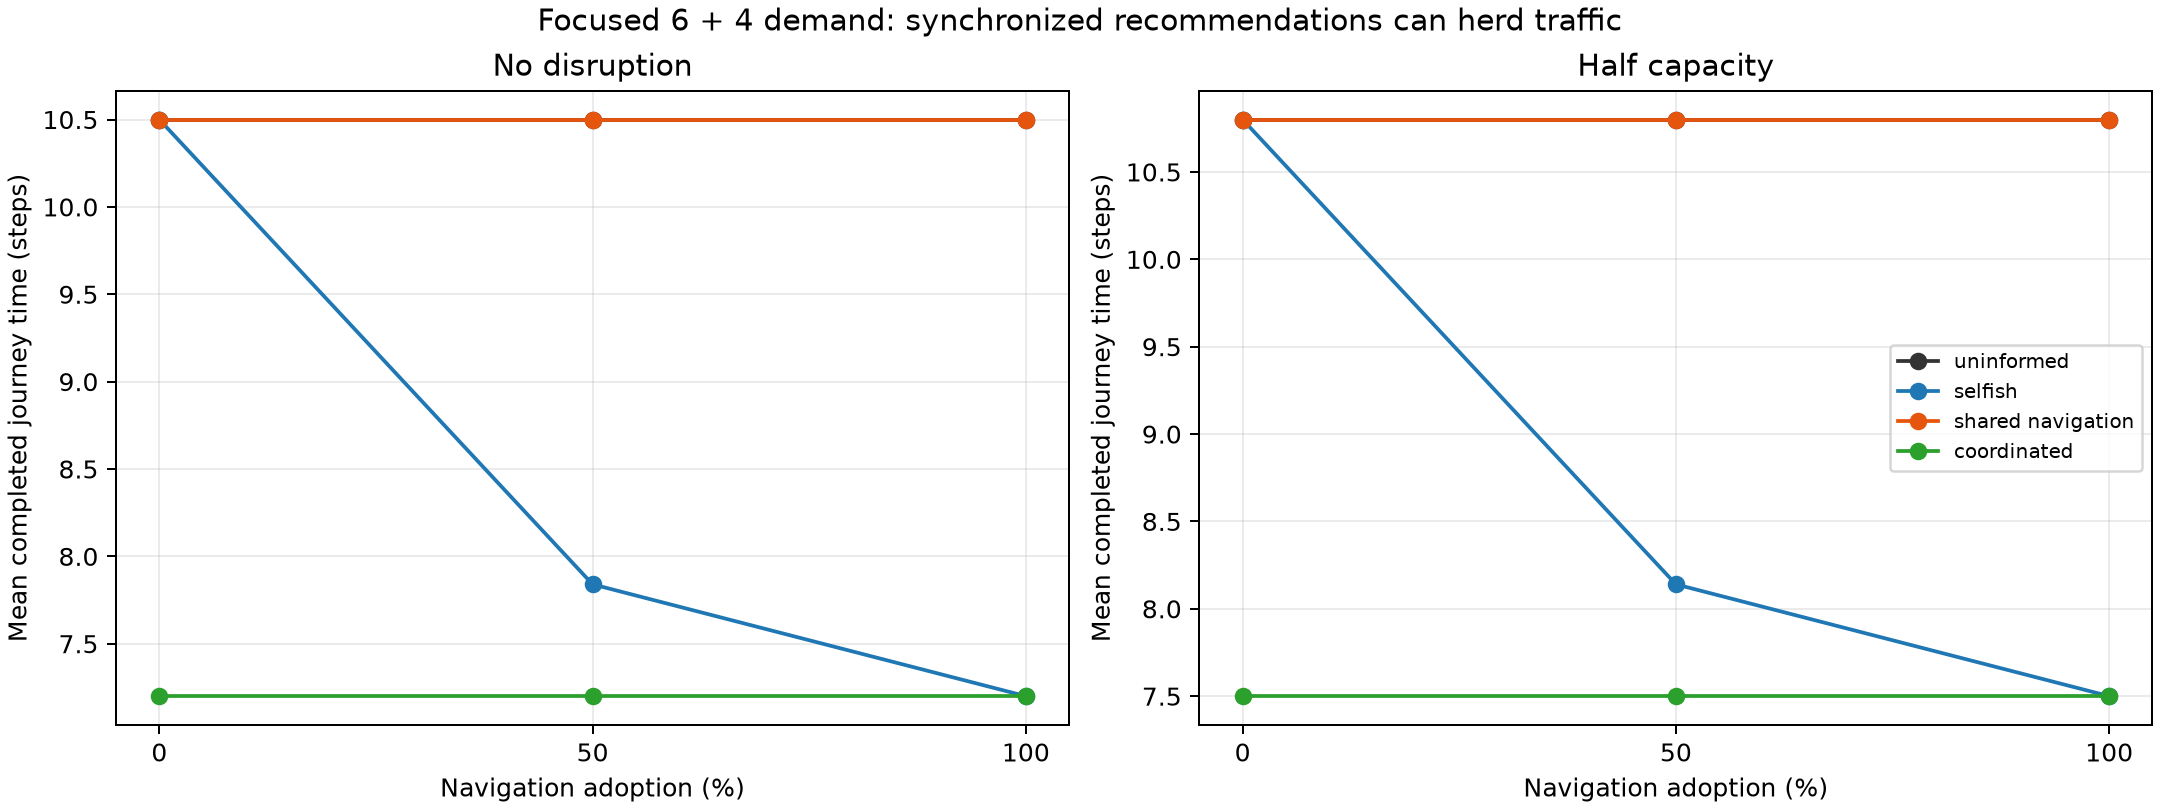
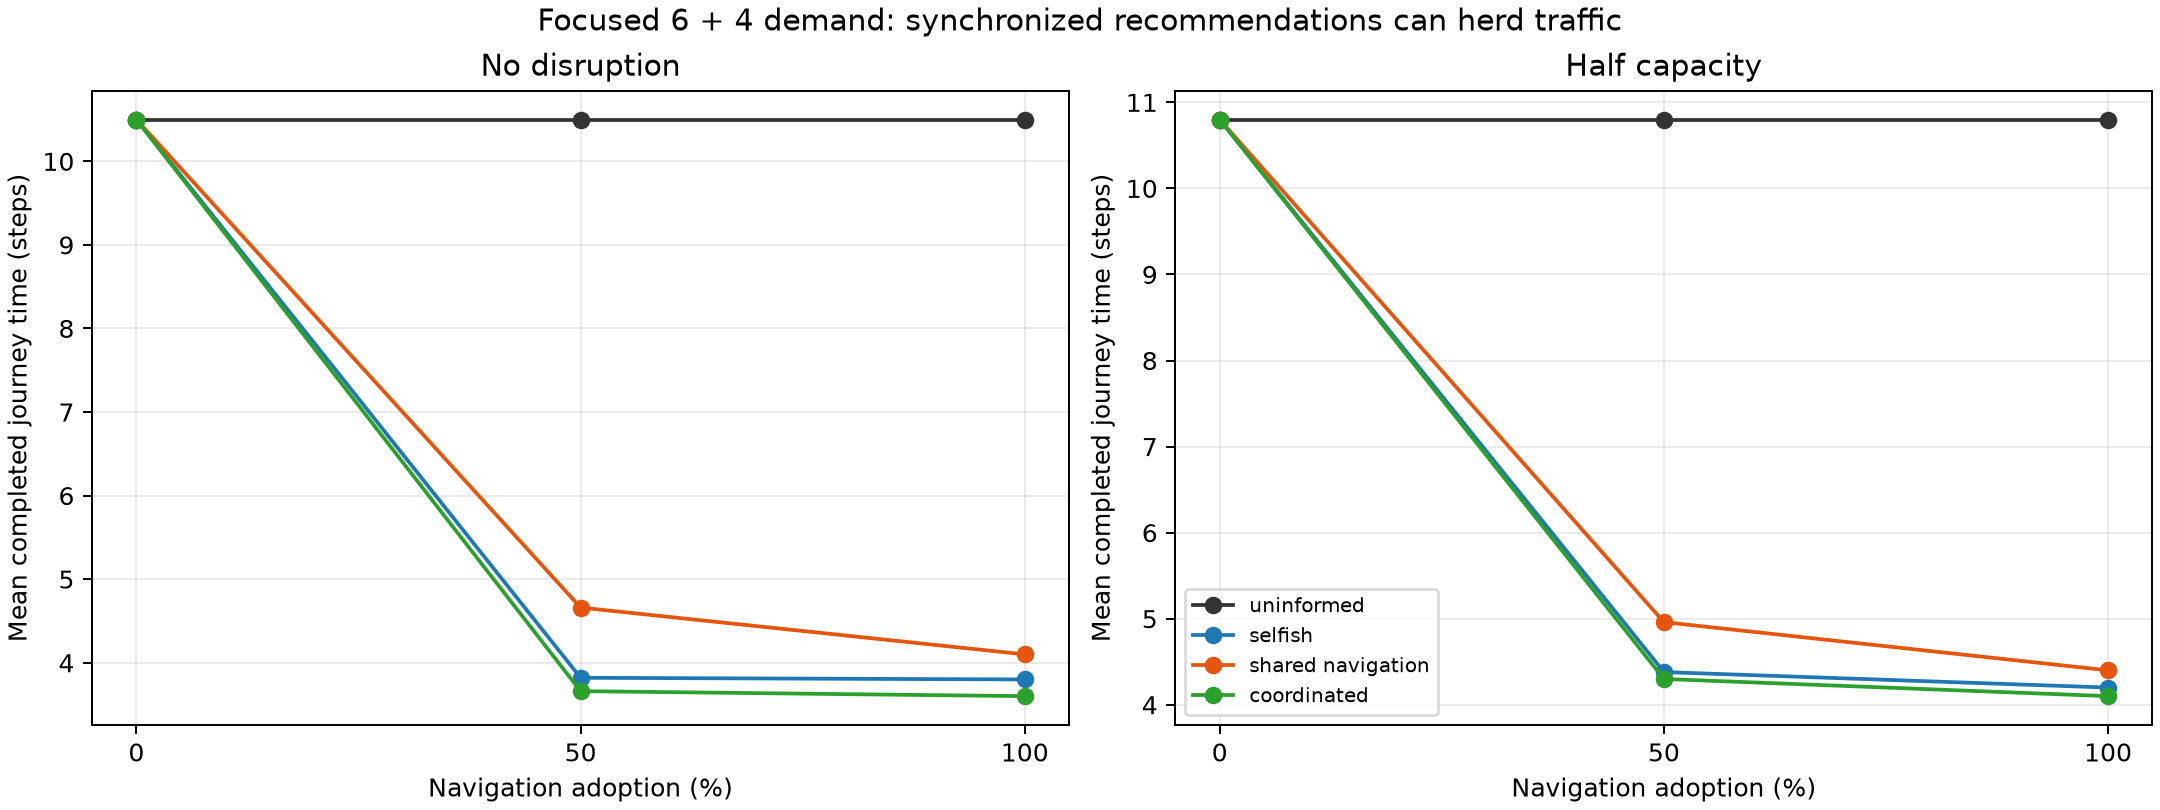
test(focused): extend focused-presentation and simulation tests; regenerate figure
test_focused_presentation.py (3 → 12 tests):
- test_coordinated_zero_adoption_matches_uninformed_baseline: verifies
  coordinated at 0% adoption follows the uninformed baseline and does
  not report the previously erroneous 7.2-step result.
- test_coordinated_full_adoption_produces_system_level_assignments:
  coordinated at 100% adoption diverts at least one vehicle.
- test_mixed_coordinated_wave_non_nav_vehicles_get_free_flow_routes:
  non-nav vehicles in a mixed wave stay on the primary free-flow route.
- test_shared_navigation_assigns_same_route_within_each_release_cohort:
  all vehicles in a release wave get one synchronized recommendation.
- test_shared_navigation_has_at_least_one_diverted_vehicle: at 100%
  adoption shared navigation must divert at least one vehicle.
- test_shared_navigation_differs_from_uninformed_routing: shared nav
  produces lower primary-route share than uninformed.
- test_shared_navigation_has_higher_mean_journey_time_than_selfish and
  test_selfish_has_lower_mean_journey_time_than_shared_navigation: herding
  cost is captured in journey-time ordering.
- test_shared_navigation_lower_within_cohort_diversity_than_selfish:
  per-wave diversity is 1 for shared vs 2 for selfish.
- test_focused_route_metrics_are_seed_reproducible and
  test_repeated_coordinated_runs_with_same_seed_are_deterministic:
  determinism across repeated runs with the same seed.

test_simulation.py / test_routing.py:
[…]

diff --git a/tests/test_focused_presentation.py b/tests/test_focused_presentation.py
@@ -1,8 +1,15 @@
-"""Focused 6+4 presentation scenario regression tests."""
+"""Focused 6+4 presentation scenario regression tests.
 
+These tests verify both the mechanism (adoption controls nav-user eligibility,
+each release cohort's route behaviour) and the outcomes (journey-time ordering,
+route diversity, herding contrast) for the focused presentation network.
+"""
+
+from src.adoption import assign_navigation_adoption
 from src.demand import build_staggered_corridor_demand
-from src.experiments import _run_focused_scenario
+from src.experiments import _run_focused_scenario, configure_focused_network
 from src.network import create_default_network
+from src.simulation import Simulation
 
 
 def test_staggered_demand_has_six_releases_at_zero_and_four_at_one():
@@ -12,23 +19,198 @@ def test_staggered_demand_has_six_releases_at_zero_and_four_at_one():
     assert [vehicle.start_time for vehicle in vehicles] == [0] * 6 + [1] * 4
 
 
-def test_focused_shared_navigation_herds_more_than_selfish_entry():
+# ---------------------------------------------------------------------------
+# Acceptance criteria: adoption controls eligibility
+# ---------------------------------------------------------------------------
+
+def test_coordinated_zero_adoption_matches_uninformed_baseline():
+    """Coordinated at 0% adoption must follow the uninformed baseline (not 7.2).
+
+    When no vehicle uses the navigation app, the coordinated controller is
+    bypassed entirely and all vehicles receive uninformed free-flow routes.
+    """
+    coord = _run_focused_scenario(
+        policy="coordinated", adoption_rate=0.0, disruption="none", seed=0, horizon=100
+    )
+    uninformed = _run_focused_scenario(
+        policy="uninformed", adoption_rate=0.0, disruption="none", seed=0, horizon=100
+    )
+
+    assert coord["mean_journey_time"] == uninformed["mean_journey_time"]
+    assert coord["route_diversity"] == uninformed["route_diversity"]
+    assert coord["primary_route_share"] == uninformed["primary_route_share"] == 1.0
+    # Must NOT report the (previously erroneous) 7.2-step optimal result.
+    assert coord["mean_journey_time"] != 7.2
+
+
+def test_coordinated_full_adoption_produces_system_level_assignments():
+    """Coordinated routing at 100% adoption can divert vehicles to the alternative."""
+    coord = _run_focused_scenario(
+        policy="coordinated", adoption_rate=1.0, disruption="none", seed=0, horizon=100
+    )
+
+    assert coord["completed_count"] == 10
+    # Controller must produce at least one diverted vehicle.
+    assert coord["primary_route_share"] < 1.0
+    assert coord["route_diversity"] >= 2
+
+
+# ---------------------------------------------------------------------------
+# Acceptance criteria: mixed waves leave non-nav on free-flow routes
+# ---------------------------------------------------------------------------
+
+def test_mixed_coordinated_wave_non_nav_vehicles_get_free_flow_routes():
+    """Non-navigation vehicles in a mixed coordinated wave receive free-flow routes.
+
+    The free-flow shortest route in this network is the primary corridor
+    0→1→2 (travel time 2 steps at free flow vs ~4 for the alternative).
+    Non-nav vehicles must be on that primary route regardless of the
+    coordinated controller's nav-user assignments.
+    """
+    graph = create_default_network()
+    configure_focused_network(graph)
+    vehicles = build_staggered_corridor_demand(graph)
+    # 50% adoption: a mix of nav and non-nav in the same release wave.
+    assign_navigation_adoption(vehicles, 0.5, seed=0)
+
+    sim = Simulation(graph, vehicles, routing_policy="coordinated")
+    sim.run(until=100)
+
+    primary_route = [0, 1, 2]
+    for vehicle in vehicles:
+        if not vehicle.uses_navigation_app:
+            assert vehicle.route == primary_route, (
+                f"non-nav vehicle {vehicle.vehicle_id!r} expected free-flow route "
+                f"{primary_route}, got {vehicle.route}"
+            )
+
+
+# ---------------------------------------------------------------------------
+# Acceptance criteria: shared navigation cohort herding mechanism
+# ---------------------------------------------------------------------------
+
+def test_shared_navigation_assigns_same_route_within_each_release_cohort():
+    """Vehicles in the same release wave get one synchronized recommendation.
+
+    All 6 vehicles released at t=0 must share a single route, and all 4
+    vehicles released at t=1 must share a single (possibly different) route.
+    """
+    graph = create_default_network()
+    configure_focused_network(graph)
+    vehicles = build_staggered_corridor_demand(graph)
+    assign_navigation_adoption(vehicles, 1.0, seed=0)
+
+    sim = Simulation(graph, vehicles, routing_policy="shared_navigation")
+    sim.run(until=100)
+
+    wave0_routes = set(tuple(v.route) for v in vehicles if v.start_time == 0)
+    wave1_routes = set(tuple(v.route) for v in vehicles if v.start_time == 1)
+
+    assert len(wave0_routes) == 1, (
+        f"Wave 0 vehicles should all get the same route; got {len(wave0_routes)} distinct routes"
+    )
+    assert len(wave1_routes) == 1, (
+        f"Wave 1 vehicles should all get the same route; got {len(wave1_routes)} distinct routes"
+    )
+
+
+def test_shared_navigation_has_at_least_one_diverted_vehicle():
+    """At 100% adoption, shared navigation must divert at least one vehicle."""
+    graph = create_default_network()
+    configure_focused_network(graph)
+    vehicles = build_staggered_corridor_demand(graph)
+    assign_navigation_adoption(vehicles, 1.0, seed=0)
+
+    sim = Simulation(graph, vehicles, routing_policy="shared_navigation")
+    sim.run(until=100)
+
+    primary_route = (0, 1, 2)
+    diverted = [v for v in vehicles if tuple(v.route or ()) != primary_route]
+    assert len(diverted) >= 1, "shared navigation must divert at least one vehicle"
+
+
+def test_shared_navigation_differs_from_uninformed_routing():
+    """Shared navigation must not reproduce the all-primary uninformed result."""
+    shared = _run_focused_scenario(
+        policy="shared_navigation", adoption_rate=1.0, disruption="none", seed=0, horizon=100
+    )
+    uninformed = _run_focused_scenario(
+        policy="uninformed", adoption_rate=1.0, disruption="none", seed=0, horizon=100
+    )
+
+    # Shared navigation should have lower primary-route share (some vehicles diverted).
+    assert shared["primary_route_share"] < uninformed["primary_route_share"]
+
+
+# ---------------------------------------------------------------------------
+# Acceptance criteria: journey-time and diversity ordering
+# ---------------------------------------------------------------------------
+
+def test_shared_navigation_has_higher_mean_journey_time_than_selfish():
+    """Shared navigation herds, causing higher mean journey time than selfish routing."""
     selfish = _run_focused_scenario(
         policy="selfish", adoption_rate=1.0, disruption="none", seed=0, horizon=100
     )
     shared = _run_focused_scenario(
-        policy="shared_navigation",
-        adoption_rate=1.0,
-        disruption="none",
-        seed=0,
-        horizon=100,
+        policy="shared_navigation", adoption_rate=1.0, disruption="none", seed=0, horizon=100
     )
 
     assert selfish["completed_count"] == shared["completed_count"] == 10
-    assert shared["route_diversity"] < selfish["route_diversity"]
     assert shared["mean_journey_time"] > selfish["mean_journey_time"]
     assert shared["maximum_occupancy"] > 2
 
+
+def test_shared_navigation_lower_within_cohort_diversity_than_selfish():
+    """Shared navigation gives each cohort one route; selfish splits within cohorts.
+
+    Although total route diversity across all vehicles may be equal, shared
+    navigation minimises per-wave diversity to 1 while selfish routing
+    produces 2 distinct routes within each wave.
+    """
+    # --- Shared navigation ---
+    graph_shared = create_default_network()
+    configure_focused_network(graph_shared)
+    vehicles_shared = build_staggered_corridor_demand(graph_shared)
+    assign_navigation_adoption(vehicles_shared, 1.0, seed=0)
+    sim_shared = Simulation(graph_shared, vehicles_shared, routing_policy="shared_navigation")
+    sim_shared.run(until=100)
+
+    shared_wave0_diversity = len({tuple(v.route) for v in vehicles_shared if v.start_time == 0})
+    shared_wave1_diversity = len({tuple(v.route) for v in vehicles_shared if v.start_time == 1})
+
+    # --- Selfish routing ---
+    graph_selfish = create_default_network()
+    configure_focused_network(graph_selfish)
+    vehicles_selfish = build_staggered_corridor_demand(graph_selfish)
+    assign_navigation_adoption(vehicles_selfish, 1.0, seed=0)
+    sim_selfish = Simulation(graph_selfish, vehicles_selfish, routing_policy="decentralized")
+    sim_selfish.run(until=100)
+
+    selfish_wave0_diversity = len({tuple(v.route) for v in vehicles_selfish if v.start_time == 0})
+    selfish_wave1_diversity = len({tuple(v.route) for v in vehicles_selfish if v.start_time == 1})
+
+    # Each shared cohort has exactly one route; selfish cohorts split.
+    assert shared_wave0_diversity == 1
+    assert shared_wave1_diversity == 1
+    assert selfish_wave0_diversity > shared_wave0_diversity
+    assert selfish_wave1_diversity > shared_wave1_diversity
+
+
+def test_selfish_has_lower_mean_journey_time_than_shared_navigation():
+    """Selfish routing has lower mean journey time than shared navigation."""
+    selfish = _run_focused_scenario(
+        policy="selfish", adoption_rate=1.0, disruption="none", seed=0, horizon=100
+    )
+    shared = _run_focused_scenario(
+        policy="shared_navigation", adoption_rate=1.0, disruption="none", seed=0, horizon=100
+    )
+
+    assert selfish["mean_journey_time"] < shared["mean_journey_time"]
+
+
+# ---------------------------------------------------------------------------
+# Acceptance criteria: reproducibility
+# ---------------------------------------------------------------------------
 
 def test_focused_route_metrics_are_seed_reproducible():
     first = _run_focused_scenario(
@@ -42,4 +224,15 @@ def test_focused_route_metrics_are_seed_reproducible():
 
     assert first == second
     assert first["final_completion_timestep"] == first["makespan"]
-    assert first["primary_route_share"] == 1.0
+
+
+def test_repeated_coordinated_runs_with_same_seed_are_deterministic():
+    """Repeated coordinated runs with the same seed must return identical rows."""
+    first = _run_focused_scenario(
+        policy="coordinated", adoption_rate=1.0, disruption="none", seed=2, horizon=100
+    )
+    second = _run_focused_scenario(
+        policy="coordinated", adoption_rate=1.0, disruption="none", seed=2, horizon=100
+    )
+
+    assert first == second

diff --git a/tests/test_simulation.py b/tests/test_simulation.py
@@ -388,12 +388,19 @@ def test_empty_vehicle_list_is_allowed():
 
 
 def _halved_corridor_scenario():
-    """15-vehicle high-demand scenario with road 1-2 halved."""
+    """15-vehicle high-demand scenario with road 1-2 halved.
+
+    All vehicles are navigation users so the coordinated controller applies
+    to the full cohort. Tests that assert uninformed baselines should use
+    ``assign_navigation_adoption(vehicles, 0.0, seed=0)`` explicitly.
+    """
+    from src.adoption import assign_navigation_adoption
     from src.demand import build_high_demand
     from src.disruption import reduce_road_capacity
 
     graph = create_default_network()
     vehicles = build_high_demand(graph)
+    assign_navigation_adoption(vehicles, 1.0, seed=0)
     reduce_road_capacity(graph, 1, 2, factor=0.5)
     return graph, vehicles
 
@@ -450,11 +457,11 @@ def test_coordinated_routing_all_vehicles_complete():
 
 
 def test_coordinated_routing_raises_value_error_when_no_path():
-    """ValueError raised when a vehicle has no path to its destination."""
+    """ValueError raised when a navigation vehicle has no path to its destination."""
     graph = nx.DiGraph()
     graph.add_edge(0, 1, free_flow_time=1.0, capacity=10, occupancy=0, current_travel_time=1.0)
     graph.add_node(2)  # disconnected
-    vehicle = Vehicle(vehicle_id="v0", origin=0, destination=2, start_time=0)
+    vehicle = Vehicle(vehicle_id="v0", origin=0, destination=2, start_time=0, uses_navigation_app=True)
 
     sim = Simulation(graph, [vehicle], routing_policy="coordinated")
     with pytest.raises(ValueError, match="no path exists"):
@@ -474,9 +481,9 @@ def test_coordinated_routing_raises_value_error_when_search_space_too_large():
     for mid in (10, 11, 12):
         graph.add_edge(0, mid, **attrs)
         graph.add_edge(mid, 2, **attrs)
-    # 57 vehicles on 0→2: C(60, 3) = 34220 > 32768.
+    # 57 navigation vehicles on 0→2: C(60, 3) = 34220 > 32768.
     vehicles = [
-        Vehicle(vehicle_id=f"v{i}", origin=0, destination=2, start_time=0)
+        Vehicle(vehicle_id=f"v{i}", origin=0, destination=2, start_time=0, uses_navigation_app=True)
         for i in range(57)
     ]
     sim = Simulation(graph, vehicles, routing_policy="coordinated")

diff --git a/tests/test_routing.py b/tests/test_routing.py
@@ -193,12 +193,18 @@ def test_unreachable_pair_raises_value_error():
 
 
 def _halved_corridor_scenario():
-    """15-vehicle high-demand scenario with road 1–2 halved."""
+    """15-vehicle high-demand scenario with road 1–2 halved.
+
+    All vehicles are navigation users so the coordinated controller applies
+    to the full cohort.
+    """
+    from src.adoption import assign_navigation_adoption
     from src.demand import build_high_demand
     from src.disruption import reduce_road_capacity
 
     graph = create_default_network()
     vehicles = build_high_demand(graph)
+    assign_navigation_adoption(vehicles, 1.0, seed=0)
     reduce_road_capacity(graph, 1, 2, factor=0.5)
     return graph, vehicles
 
